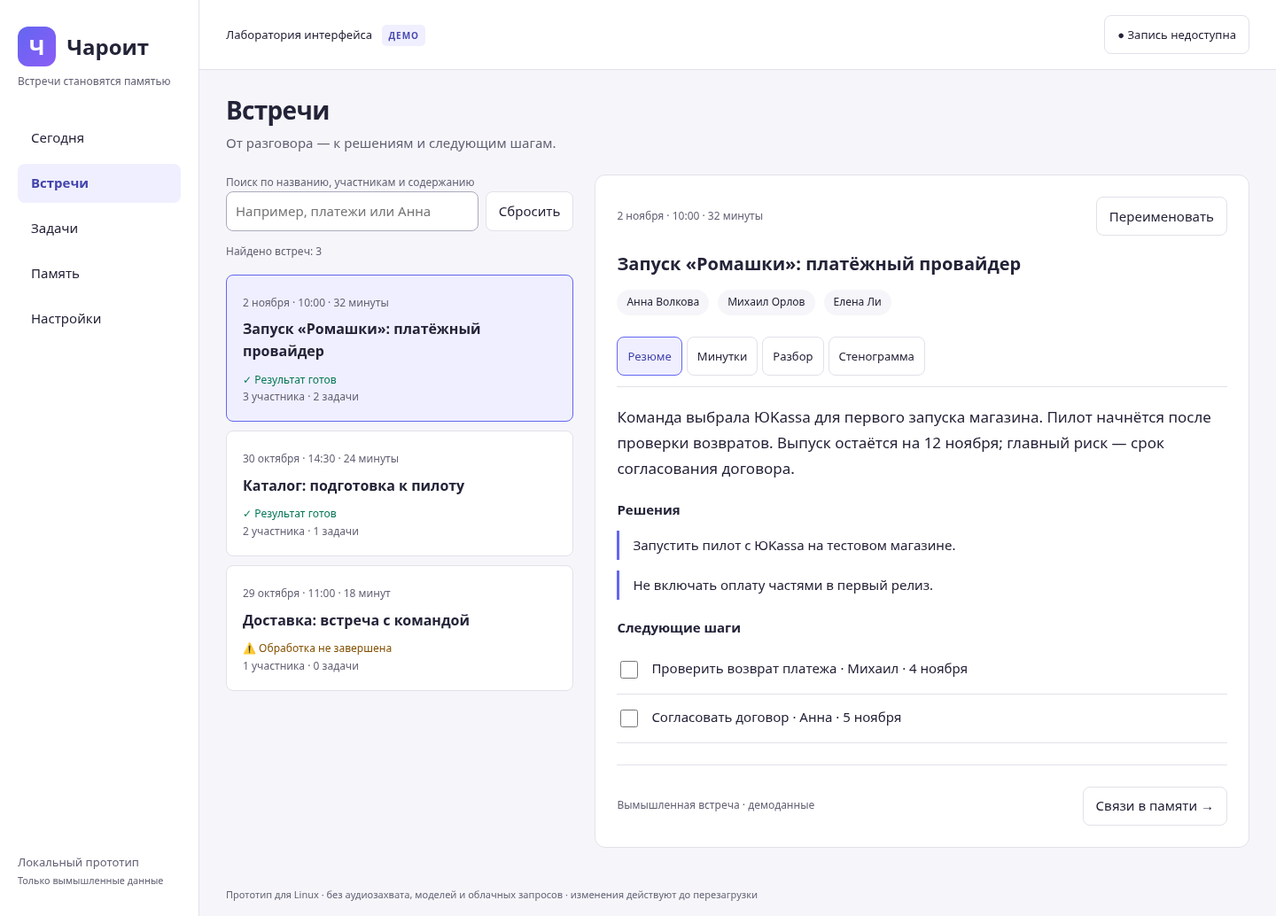
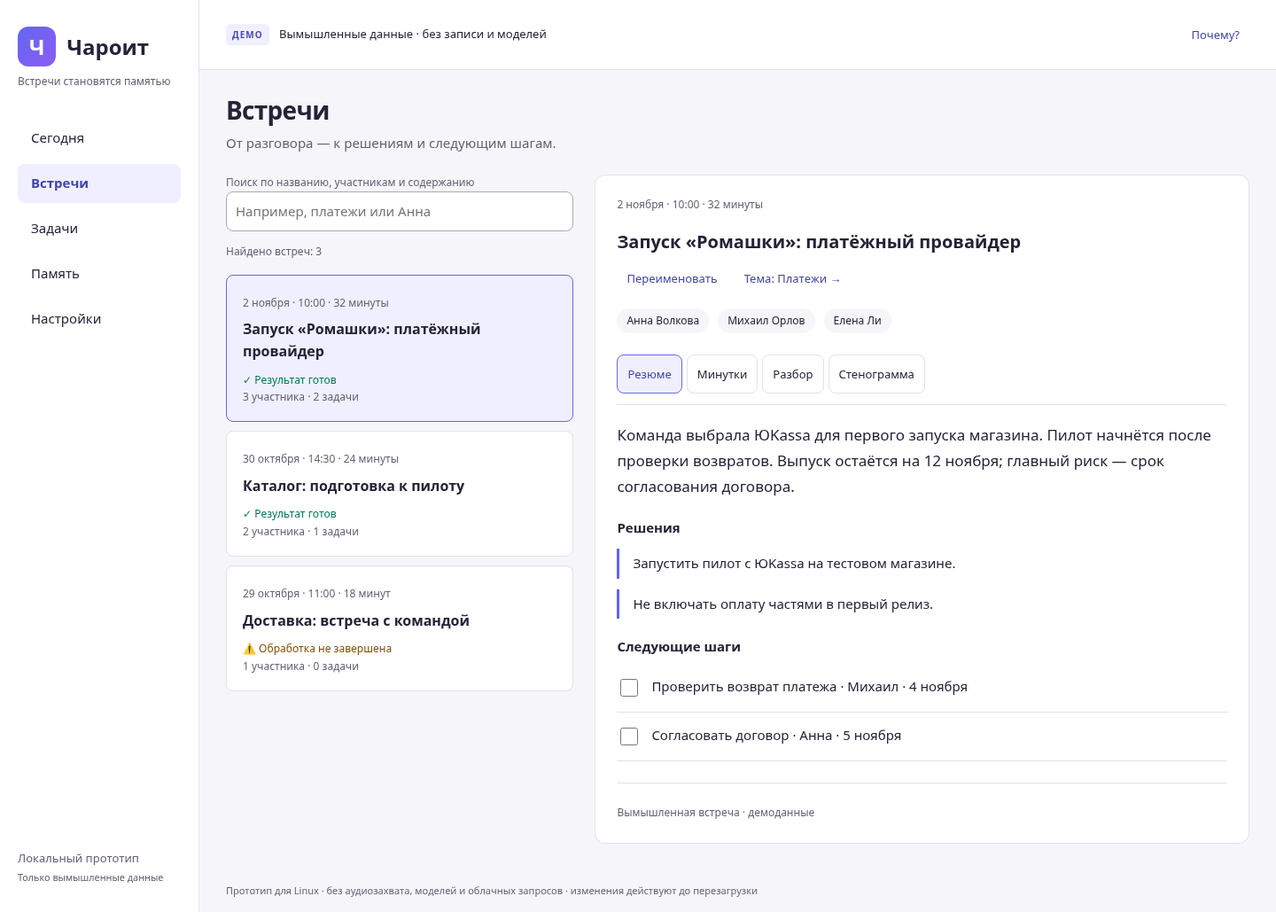
fix(prototype): согласовать поиск и упростить действия встречи

diff --git a/prototypes/linux-ui/app.js b/prototypes/linux-ui/app.js
@@ -13,12 +13,20 @@ function go(target){page=target;mobileDetail=false;render();$('#main').focus()}
 function taskMarkup(m,i){const key=`${m.id}-${i}`;return `<label class="task"><input type="checkbox" data-task="${key}" ${done.has(key)?'checked':''}><span>${esc(m.tasks[i])}</span></label>`}
 function openMeeting(id){selected=Number(id);page='archive';depth='Резюме';mobileDetail=true;render();$('.detail').focus()}
 function meetingButton(m){return `<button class="meeting" style="padding:${compact?10:18}px" data-meeting="${m.id}" aria-pressed="${selected===m.id}"><span class="meta">${m.date} · ${m.duration}</span><strong>${esc(m.title)}</strong><span class="state ${m.error?'warn':''}">${m.error?'⚠ Обработка не завершена':'✓ Результат готов'}</span><div class="meta">${m.people.length} участника · ${m.tasks.length} задачи</div></button>`}
-function detail(){const m=meetings.find(m=>m.id===selected);return `${button('← К результатам поиска','back','back')}<div class="row between"><span class="meta">${m.date} · ${m.duration}</span>${button('Переименовать','rename')}</div><h2 style="margin-top:16px">${esc(m.title)}</h2><div class="row">${m.people.map(p=>`<span class="chip">${p}</span>`).join('')}</div>${m.error?`<div class="callout"><strong>Обработка не завершена</strong><p>Демонстрационный сбой: локальная модель недоступна. Стенограмма сохранена.</p>${button('Почему нельзя повторить?','retry')}</div>`:''}<div class="tabs" aria-label="Глубина чтения">${['Резюме','Минутки','Разбор','Стенограмма'].map(d=>`<button data-depth="${d}" aria-pressed="${d===depth}">${d}</button>`).join('')}</div>${content(m)}<hr style="border:0;border-top:1px solid var(--border);margin:24px 0"><div class="row between"><span class="meta">Вымышленная встреча · демоданные</span>${button('Связи в памяти →','memory')}</div>`}
+function detail(){const m=meetings.find(m=>m.id===selected);return `${button('← К результатам поиска','back','back')}<div class="row between"><span class="meta">${m.date} · ${m.duration}</span></div><h2 class="meeting-title">${esc(m.title)}</h2><div class="detail-actions">${button('Переименовать','rename','quiet')}${button('Тема: '+esc(m.topic)+' →','memory','quiet topic-link')}</div><div class="row">${m.people.map(p=>`<span class="chip">${p}</span>`).join('')}</div>${m.error?`<div class="callout"><strong>Обработка не завершена</strong><p>Демонстрационный сбой: локальная модель недоступна. Стенограмма сохранена.</p>${button('Почему нельзя повторить?','retry')}</div>`:''}<div class="tabs" aria-label="Глубина чтения">${['Резюме','Минутки','Разбор','Стенограмма'].map(d=>`<button data-depth="${d}" aria-pressed="${d===depth}">${d}</button>`).join('')}</div>${content(m)}<hr style="border:0;border-top:1px solid var(--border);margin:24px 0"><div class="row between"><span class="meta">Вымышленная встреча · демоданные</span></div>`}
 function content(m){if(depth==='Стенограмма')return `<p style="white-space:pre-wrap">${esc(m.transcript)}</p>`;if(m.error)return '<div class="empty"><h3>Результат пока не собран</h3><p class="muted">Откройте сохранённую стенограмму. Модель в прототипе не подключена.</p></div>';if(depth==='Разбор')return `<p>${esc(m.analysis)}</p>`;return `<p class="summary">${esc(m.summary)}</p><h3>Решения</h3>${m.decisions.map(x=>`<p class="decision">${esc(x)}</p>`).join('')}<h3>Следующие шаги</h3>${m.tasks.map((_,i)=>taskMarkup(m,i)).join('')}${depth==='Минутки'?'<h3>Следующая проверка</h3><p>На планёрке 5 ноября сверить статус задач и сроки пилота.</p>':''}`}
-function archive(){return `<div class="heading"><h1>Встречи</h1><p class="muted">От разговора — к решениям и следующим шагам.</p></div><div class="split ${mobileDetail?'mobile-detail':''}"><section class="list-column" aria-label="Архив"><label for="search" class="meta">Поиск по названию, участникам и содержанию</label><div class="search"><input id="search" type="search" placeholder="Например, платежи или Анна" value="${esc(query)}">${button('Сбросить','clear')}</div><div id="results"></div></section><article class="panel detail" tabindex="-1" aria-label="Карточка встречи">${detail()}</article></div>`}
-function results(){const q=query.trim().toLocaleLowerCase('ru');const hits=meetings.filter(m=>[m.title,m.summary,m.topic,...m.people,...m.decisions,...m.tasks,m.transcript].join(' ').toLocaleLowerCase('ru').includes(q));$('#results').innerHTML=`<p class="meta" role="status">Найдено встреч: ${hits.length}</p>${hits.length?hits.map(meetingButton).join(''):`<div class="panel empty"><h2>Ничего не найдено</h2><p class="muted">Попробуйте имя участника или другое слово.</p>${button('Показать все встречи','clear')}</div>`}`}
-function render(){ $('nav').innerHTML=Object.entries(names).map(([id,name])=>`<button data-page="${id}" ${id===page?'aria-current="page"':''}>${name}</button>`).join('');let html='';if(page==='archive')html=archive();if(page==='today')html=`<div class="heading"><span class="meta">Понедельник, 2 ноября · демонстрационный день</span><h1>Сегодня</h1><p class="muted">Важное из ваших разговоров — в одном месте.</p></div><section class="panel memory"><h2>Готовы к следующей встрече?</h2><p>В этой лаборатории можно изучить результаты. Микрофон, системный звук и модели не подключены.</p>${button('Проверить возможности','record','primary')}</section><h2 style="margin-top:28px">Последние встречи</h2><div class="grid">${meetings.map(meetingButton).join('')}</div>`;if(page==='tasks')html=`<div class="heading"><h1>Следующие шаги</h1><p class="muted">Задачи связаны со встречами. Отметки меняются только в демосессии.</p></div><section class="panel">${meetings.filter(m=>m.tasks.length).map(m=>`<h2>${esc(m.title)}</h2>${m.tasks.map((_,i)=>taskMarkup(m,i)).join('')}<p>${button('Открыть источник','source-'+m.id)}</p>`).join('')}</section>`;if(page==='memory')html=`<div class="heading"><h1>Память встреч</h1><p class="muted">Темы → решения → люди. Каждое решение ведёт к источнику.</p></div><div class="grid">${meetings.map(m=>`<section class="panel"><span class="badge">ТЕМА</span><h2 style="margin-top:18px">${m.topic}</h2><p>${m.error?'Решения ещё не извлечены.':esc(m.decisions[0])}</p><h3>Участники</h3><p class="muted">${m.people.join(', ')}</p>${button('Встреча-источник →','source-'+m.id)}</section>`).join('')}</div><div class="callout">Это навигация по заранее заданным связям, не работающий графовый поиск или ответ нейросети.</div>`;if(page==='settings')html=`<div class="heading"><h1>Настройки прототипа</h1><p class="muted">Настройки приложения на Mac не читаются и не меняются.</p></div><section class="panel"><h2>Внешний вид</h2><div class="setting"><label for="density">Плотность списка<select id="density"><option value="normal">Обычная</option><option value="compact" ${compact?'selected':''}>Компактная</option></select></label><p class="meta">Применяется к карточкам в архиве и на главной.</p></div><div class="setting"><h2>Данные и приватность</h2><p>Все встречи вымышлены. Изменения хранятся только в памяти этой вкладки.</p><p>Облачные модели выключены и не подключаются. Загрузка записей не реализована.</p></div><div class="setting"><h2>Аудио и модели</h2><p>Недоступны в прототипе. Никакого запроса к микрофону или имитации успешной записи.</p>${button('Подробнее','record')}</div></section>`;$('#main').innerHTML=html;if(page==='archive')results();document.documentElement.style.setProperty('--card-padding',compact?'10px':'18px');document.querySelectorAll('.meeting').forEach(el=>el.style.padding=compact?'10px':'18px')}
-function modal(kind){const m=meetings.find(m=>m.id===selected);const rename=kind==='rename';$('#dialog-form').innerHTML=`<h2 id="dialog-title">${rename?'Переименовать встречу':kind==='retry'?'Повторная обработка недоступна':'Запись не подключена'}</h2>${rename?`<label for="new-title">Название встречи</label><input id="new-title" name="title" maxlength="120" required value="${esc(m.title)}"><p class="meta">Изменится только название в демосессии.</p>`:`<p>${kind==='retry'?'В прототипе нет локальной модели. Повторное нажатие не запустит обработку; исходная демостенограмма доступна.':'Этот интерфейс проверяет дизайн. Захват звука macOS и MLX не перенесены в Linux. Можно открыть вымышленные встречи и проверить навигацию.'}</p>`}<div class="row"><button value="cancel" formnovalidate>${rename?'Отмена':'Понятно'}</button>${rename?'<button class="primary" value="save">Сохранить</button>':''}</div>`;$('#dialog-form').onsubmit=e=>{if(e.submitter?.value==='save'){const input=$('#new-title');if(!input.value.trim()){e.preventDefault();input.setCustomValidity('Введите название, а не только пробелы.');input.reportValidity();return}m.title=input.value.trim();render();requestAnimationFrame(()=>document.querySelector('[data-action=rename]')?.focus());notify('Название изменено в демосессии')}};if(rename)$('#new-title').oninput=()=>$('#new-title').setCustomValidity('');$('dialog').showModal()}
+function archive(){return `<div class="heading"><h1>Встречи</h1><p class="muted">От разговора — к решениям и следующим шагам.</p></div><div class="split ${mobileDetail?'mobile-detail':''}"><section class="list-column" aria-label="Архив"><label for="search" class="meta">Поиск по названию, участникам и содержанию</label><div class="search"><input id="search" type="search" placeholder="Например, платежи или Анна" value="${esc(query)}"><button class="quiet" data-action="clear" id="clear-search" hidden>Очистить</button></div><div id="results"></div></section><article class="panel detail" tabindex="-1" aria-label="Карточка встречи">${detail()}</article></div>`}
+function results(){
+ const q=query.trim().toLocaleLowerCase('ru');
+ const hits=meetings.filter(m=>[m.title,m.summary,m.topic,...m.people,...m.decisions,...m.tasks,m.transcript].join(' ').toLocaleLowerCase('ru').includes(q));
+ $('#clear-search').hidden=query.length===0;
+ $('#results').innerHTML=`<p class="meta" role="status">Найдено встреч: ${hits.length}</p>${hits.length?hits.map(meetingButton).join(''):`<div class="panel empty"><h2>Ничего не найдено</h2><p class="muted">Попробуйте имя участника или другое слово.</p>${button('Показать все встречи','clear')}</div>`}`;
+ // Не выдаём ранее открытую встречу за результат нового запроса.
+ $('.detail').innerHTML=hits.some(m=>m.id===selected)?detail():`${button('← К результатам поиска','back','back')}<div class="empty"><h2>${hits.length?'Выберите встречу из результатов':'Нет встречи для просмотра'}</h2><p class="muted">${hits.length?'Откройте карточку слева, чтобы увидеть решения и задачи.':'Измените запрос или очистите поиск.'}</p></div>`;
+}
+
+function render(){ $('nav').innerHTML=Object.entries(names).map(([id,name])=>`<button data-page="${id}" ${id===page?'aria-current="page"':''}>${name}</button>`).join('');let html='';if(page==='archive')html=archive();if(page==='today')html=`<div class="heading"><span class="meta">Понедельник, 2 ноября · демонстрационный день</span><h1>Сегодня</h1><p class="muted">Важное из ваших разговоров — в одном месте.</p></div><section class="panel memory"><h2>Готовы к следующей встрече?</h2><p>В этой лаборатории можно изучить результаты. Микрофон, системный звук и модели не подключены.</p>${button('Проверить возможности','record','primary')}</section><h2 style="margin-top:28px">Последние встречи</h2><div class="grid">${meetings.map(meetingButton).join('')}</div>`;if(page==='tasks')html=`<div class="heading"><h1>Следующие шаги</h1><p class="muted">Задачи связаны со встречами. Отметки меняются только в демосессии.</p></div><section class="panel">${meetings.filter(m=>m.tasks.length).map(m=>`<h2>${esc(m.title)}</h2>${m.tasks.map((_,i)=>taskMarkup(m,i)).join('')}<p>${button('Открыть источник','source-'+m.id)}</p>`).join('')}</section>`;if(page==='memory')html=`<div class="heading"><h1>Память встреч</h1><p class="muted">Темы → решения → люди. Каждое решение ведёт к источнику.</p></div><div class="grid">${meetings.map(m=>`<section class="panel"><span class="badge">ТЕМА</span><h2 style="margin-top:18px">${m.topic}</h2><p>${m.error?'Решения ещё не извлечены.':esc(m.decisions[0])}</p><h3>Участники</h3><p class="muted">${m.people.join(', ')}</p>${button('Источник: '+esc(m.title)+'<span class="meta">'+m.date+' →</span>','source-'+m.id,'source-link')}</section>`).join('')}</div><div class="callout">Это навигация по заранее заданным связям, не работающий графовый поиск или ответ нейросети.</div>`;if(page==='settings')html=`<div class="heading"><h1>Настройки прототипа</h1><p class="muted">Настройки приложения на Mac не читаются и не меняются.</p></div><section class="panel"><h2>Внешний вид</h2><div class="setting"><label for="density">Плотность списка<select id="density"><option value="normal">Обычная</option><option value="compact" ${compact?'selected':''}>Компактная</option></select></label><p class="meta">Применяется к карточкам в архиве и на главной.</p></div><div class="setting"><h2>Данные и приватность</h2><p>Все встречи вымышлены. Изменения хранятся только в памяти этой вкладки.</p><p>Облачные модели выключены и не подключаются. Загрузка записей не реализована.</p></div><div class="setting"><h2>Аудио и модели</h2><p>Недоступны в прототипе. Никакого запроса к микрофону или имитации успешной записи.</p>${button('Подробнее','record')}</div></section>`;$('#main').innerHTML=html;if(page==='archive')results();document.documentElement.style.setProperty('--card-padding',compact?'10px':'18px');document.querySelectorAll('.meeting').forEach(el=>el.style.padding=compact?'10px':'18px')}
+function modal(kind){const m=meetings.find(m=>m.id===selected);const rename=kind==='rename';$('#dialog-form').innerHTML=`<h2 id="dialog-title">${rename?'Переименовать встречу':kind==='retry'?'Повторная обработка недоступна':'Запись не подключена'}</h2>${rename?`<label for="new-title">Название встречи</label><input id="new-title" name="title" maxlength="120" required value="${esc(m.title)}"><p class="meta">Изменится только название в демосессии.</p>`:`<p>${kind==='retry'?'В прототипе нет локальной модели. Повторное нажатие не запустит обработку; исходная демостенограмма доступна.':'Этот интерфейс проверяет дизайн. Захват звука macOS и MLX не перенесены в Linux. Можно открыть вымышленные встречи и проверить навигацию.'}</p>`}<div class="row"><button value="cancel" formnovalidate>${rename?'Отмена':'Понятно'}</button>${rename?'<button class="primary" value="save">Сохранить</button>':''}</div>`;$('#dialog-form').onsubmit=e=>{if(e.submitter?.value==='save'){const input=$('#new-title');if(!input.value.trim()){e.preventDefault();input.setCustomValidity('Введите название, а не только пробелы.');input.reportValidity();return}m.title=input.value.trim();render();requestAnimationFrame(()=>(document.querySelector('[data-action=rename]') || $('.detail'))?.focus());notify('Название изменено в демосессии')}};if(rename)$('#new-title').oninput=()=>$('#new-title').setCustomValidity('');$('dialog').showModal()}
 document.addEventListener('click',e=>{const b=e.target.closest('button');if(!b)return;if(b.dataset.page)return go(b.dataset.page);if(b.dataset.meeting)return openMeeting(b.dataset.meeting);if(b.dataset.depth){depth=b.dataset.depth;$('.detail').innerHTML=detail();document.querySelector(`[data-depth="${depth}"]`).focus();return}const a=b.dataset.action;if(a==='clear'){query='';results();$('#search').value='';$('#search').focus()}else if(a==='back'){mobileDetail=false;render();document.querySelector(`[data-meeting="${selected}"]`)?.focus()}else if(a==='memory')go('memory');else if(a?.startsWith('source-')){query='';openMeeting(a.slice(7))}else if(['rename','record','retry'].includes(a))modal(a)});
 document.addEventListener('input',e=>{if(e.target.id==='search'){query=e.target.value;results()}});
 document.addEventListener('change',e=>{if(e.target.dataset.task){e.target.checked?done.add(e.target.dataset.task):done.delete(e.target.dataset.task);notify(e.target.checked?'Задача отмечена в демосессии':'Задача снова открыта')}if(e.target.id==='density'){compact=e.target.value==='compact';notify('Плотность списка изменена')}});

diff --git a/prototypes/linux-ui/index.html b/prototypes/linux-ui/index.html
@@ -1,3 +1,3 @@
 <!doctype html>
 <html lang="ru"><head><meta charset="utf-8"><meta name="viewport" content="width=device-width,initial-scale=1"><title>Чароит · лаборатория интерфейса</title><link rel="stylesheet" href="style.css"></head>
-<body><a class="skip" href="#main">К содержимому</a><aside><div class="brand"><span class="gem">Ч</span> Чароит</div><p class="muted">Встречи становятся памятью</p><nav aria-label="Основная навигация"></nav><div class="aside-note">Локальный прототип<br><small>Только вымышленные данные</small></div></aside><div class="workspace"><header><span>Лаборатория интерфейса <b class="badge">ДЕМО</b></span><button data-action="record">● Запись недоступна</button></header><main id="main" tabindex="-1"></main><footer>Прототип для Linux · без аудиозахвата, моделей и облачных запросов · изменения действуют до перезагрузки</footer></div><dialog aria-labelledby="dialog-title"><form method="dialog" id="dialog-form"></form></dialog><div id="notice" role="status" aria-live="polite"></div><script src="app.js"></script></body></html>
+<body><a class="skip" href="#main">К содержимому</a><aside><div class="brand"><span class="gem">Ч</span> Чароит</div><p class="muted">Встречи становятся памятью</p><nav aria-label="Основная навигация"></nav><div class="aside-note">Локальный прототип<br><small>Только вымышленные данные</small></div></aside><div class="workspace"><header><span class="demo-status"><b class="badge">ДЕМО</b> Вымышленные данные · без записи и моделей</span><button class="quiet" data-action="record">Почему?</button></header><main id="main" tabindex="-1"></main><footer>Прототип для Linux · без аудиозахвата, моделей и облачных запросов · изменения действуют до перезагрузки</footer></div><dialog aria-labelledby="dialog-title"><form method="dialog" id="dialog-form"></form></dialog><div id="notice" role="status" aria-live="polite"></div><script src="app.js"></script></body></html>

diff --git a/prototypes/linux-ui/style.css b/prototypes/linux-ui/style.css
@@ -4,3 +4,23 @@
 .skip{top:0;left:0;transform:translateY(-150%)}.skip:focus{transform:translateY(0)}
 @media(max-width:640px){nav{flex-wrap:wrap;overflow:visible}}
 .skip{clip-path:inset(100%)}.skip:focus{clip-path:none}
+
+/* Actions keep 44 px targets while secondary controls carry less visual weight. */
+:root{--primary:#5558d9}
+button.primary{background:var(--primary);border-color:var(--primary)}
+button.quiet{background:transparent;border-color:transparent;color:#4244ac;font-size:13px;padding:7px 10px}
+button.quiet:hover{background:var(--memory);border-color:var(--border)}
+[hidden]{display:none!important}
+.demo-status{line-height:1.5}.demo-status .badge{margin:0 8px 0 0}
+.meeting-title{margin:16px 0 4px;overflow-wrap:anywhere}
+.detail-actions{display:flex;flex-wrap:wrap;gap:8px;margin-bottom:12px}
+.source-link{text-align:left;overflow-wrap:anywhere;width:100%}.source-link .meta{display:block;margin-top:5px}
+@media(max-width:640px){
+ aside{padding:10px 16px 6px}.brand{font-size:18px}.gem{padding:1px 10px;border-radius:8px}
+ nav{margin-top:6px;gap:0}nav button{padding:5px 6px;font-size:12px}
+ header{padding:6px 16px;gap:6px;align-items:center}header>span{max-width:none;flex:1;font-size:11px}
+ header button{flex-shrink:0}main{padding:14px 16px}.heading{margin-bottom:14px}
+ .heading p{display:none}.heading h1{margin-bottom:0}
+ .search{margin-top:4px;margin-bottom:8px}.back{margin-bottom:8px}
+ .meeting-title{margin-top:10px}.detail-actions{gap:0;margin-bottom:8px}
+}

diff --git a/docs/design/layout.md b/docs/design/layout.md
@@ -186,7 +186,7 @@
 - `scripts/graph_search_index.py` ← docs/DATA_AND_RECOVERY.md, docs/FEATURES.md, docs/ru/DATA_AND_RECOVERY.md, docs/ru/FEATURES.md, docs/zh/DATA_AND_RECOVERY.md, docs/zh/FEATURES.md
 - `scripts/import_meeting.py` ← PRIVACY.md, README.md, docs/DATA_AND_RECOVERY.md, docs/FEATURES.md, docs/USER_GUIDE.md, docs/ru/DATA_AND_RECOVERY.md, docs/ru/FEATURES.md, docs/ru/PRIVACY.md, docs/ru/README.md, docs/ru/USER_GUIDE.md, docs/ru/scripts/README.md, docs/zh/DATA_AND_RECOVERY.md, docs/zh/FEATURES.md, docs/zh/PRIVACY.md, docs/zh/README.md, docs/zh/USER_GUIDE.md, docs/zh/scripts/README.md, scripts/README.md
 - `scripts/install_engine.py` ← PRIVACY.md, README.md, config/config.example.en.yaml, config/config.example.yaml, config/config.example.zh.yaml, docs/DIARIZATION.md, docs/FEATURES.md, docs/MODELS.md, docs/SETUP.md, docs/research/diarization-log.md, docs/ru/DIARIZATION.md, docs/ru/MODELS.md, docs/ru/PRIVACY.md, docs/ru/SETUP.md, docs/zh/MODELS.md, docs/zh/PRIVACY.md, docs/zh/SETUP.md
-- `scripts/layout_map.py` ← CONTRIBUTING.md, ROADMAP.md, docs/ARCHITECTURE.md, docs/RELEASING.md, docs/ru/ARCHITECTURE.md, docs/ru/CONTRIBUTING.md, docs/ru/RELEASING.md, docs/ru/ROADMAP.md, docs/zh/ARCHITECTURE.md, docs/zh/CONTRIBUTING.md, docs/zh/RELEASING.md, docs/zh/ROADMAP.md, packages/README.md
+- `scripts/layout_map.py` ← CONTRIBUTING.md, ROADMAP.md, docs/ARCHITECTURE.md, docs/RELEASING.md, docs/ru/ARCHITECTURE.md, docs/ru/CONTRIBUTING.md, docs/ru/RELEASING.md, docs/ru/ROADMAP.md, docs/zh/ARCHITECTURE.md, docs/zh/CONTRIBUTING.md, docs/zh/RELEASING.md, docs/zh/ROADMAP.md, packages/README.md, prototypes/linux-ui/README.md
 - `scripts/lock_runtime_deps.py` ← SECURITY.md, docs/DIARIZATION.md, docs/RELEASING.md, docs/research/diarization-log.md, docs/ru/DIARIZATION.md, docs/ru/RELEASING.md, docs/ru/SECURITY.md, docs/zh/RELEASING.md, docs/zh/SECURITY.md, requirements-nemotron.in, requirements-runtime.in
 - `scripts/make_dmg.sh` ← docs/RELEASING.md, docs/ru/RELEASING.md, docs/ru/scripts/README.md, docs/zh/RELEASING.md, docs/zh/scripts/README.md, scripts/README.md
 - `scripts/memory_bench.py` ← CONTRIBUTING.md, MANIFESTO.md, README.md, config/README.md, config/memory_bench.example.yaml, demo/README.md, docs/ARCHITECTURE.md, docs/FEATURES.md, docs/ru/ARCHITECTURE.md, docs/ru/CONTRIBUTING.md, docs/ru/FEATURES.md, docs/ru/MANIFESTO.md, docs/ru/README.md, docs/ru/config/README.md, docs/ru/demo/README.md, docs/zh/ARCHITECTURE.md, docs/zh/CONTRIBUTING.md, docs/zh/FEATURES.md, docs/zh/MANIFESTO.md, docs/zh/README.md, docs/zh/config/README.md, docs/zh/demo/README.md

diff --git a/prototypes/linux-ui/README.md b/prototypes/linux-ui/README.md
@@ -81,3 +81,19 @@ CHROMIUM_PATH=/usr/bin/chromium npm test
 `scripts/layout_map.py --check` также прошли. Полный Python/Swift preflight
 для этой изолированной папки не запускался; продуктовый код не менялся.
 Все описанные выше исправления относятся только к новому прототипу.
+
+### Уточнение UX после эвристического аудита
+
+- При нулевой выдаче справа больше нет прежней встречи. Если совпадения есть,
+  но выбранная встреча в них не входит, предлагается выбрать результат.
+- На 390 px первая карточка начинается примерно на 324 px вместо 506 px.
+  Предупреждение «Вымышленные данные · без записи и моделей» остаётся видимым.
+- Очистка появляется только при введённом запросе. Переименование — вторичное
+  действие под названием; объяснение недоступной записи — ссылка «Почему?».
+- Связанная тема доступна до содержимого встречи. Источники в памяти названы
+  заголовком и датой встречи.
+- Контраст основной кнопки увеличен с 4,47:1 до 5,55:1.
+
+Эти условия проверяются браузерными утверждениями, включая отсутствие старой
+карточки при поиске, положение элементов, размеры целей и вычисленный контраст.
+[Список на мобильном экране](screenshots/05-archive-mobile.png).
